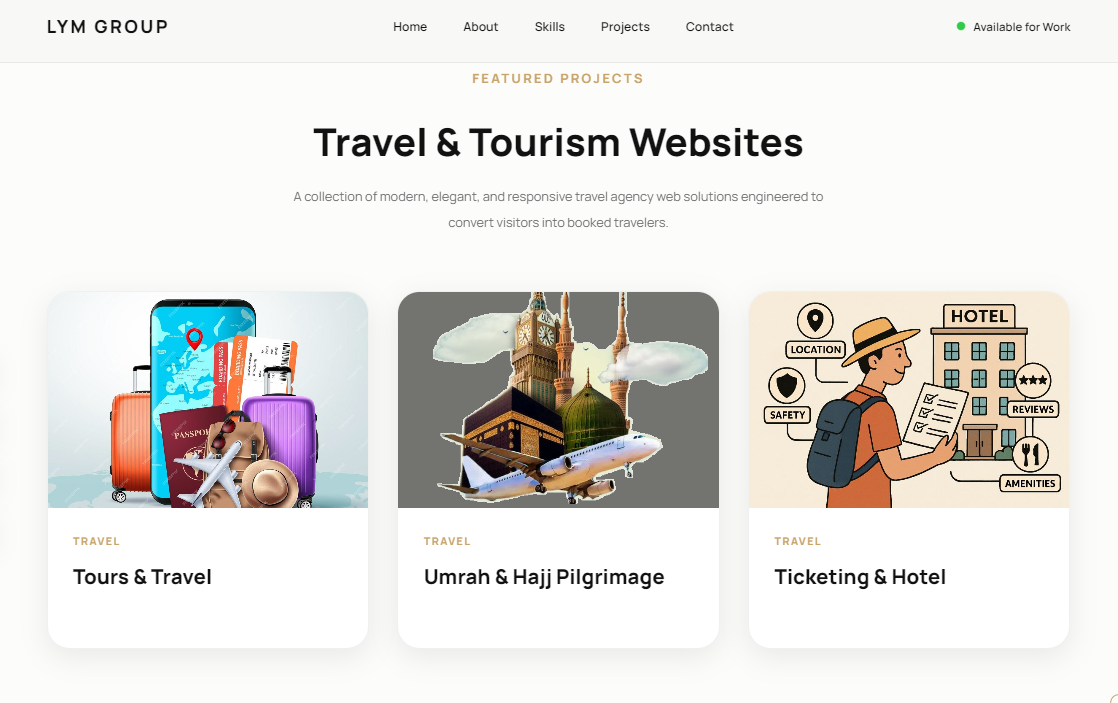
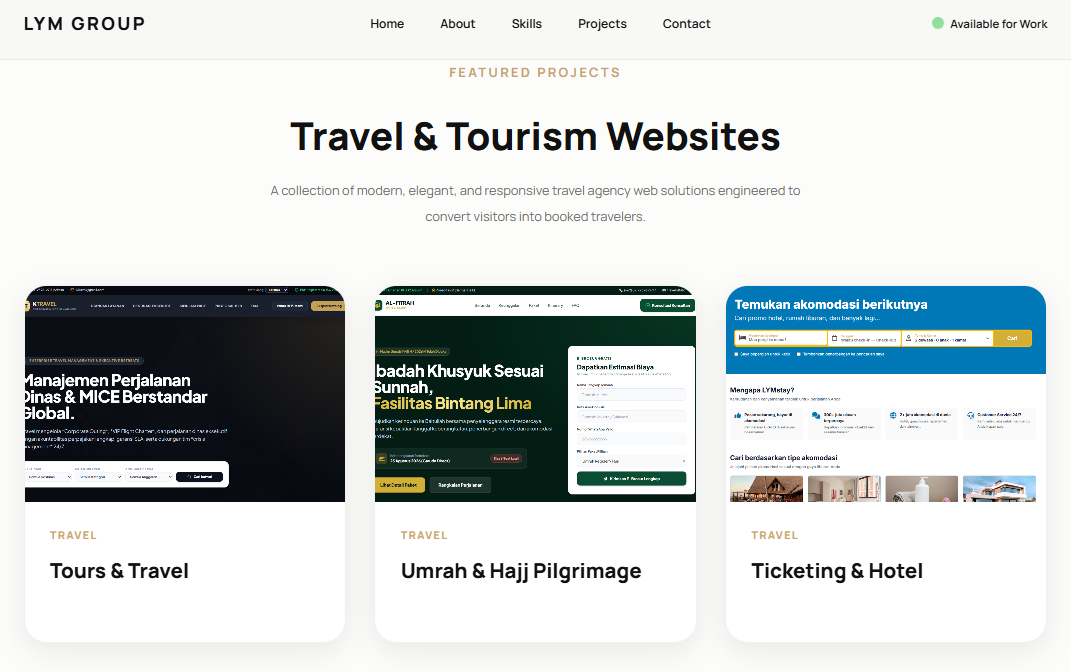
Fix website

diff --git a/portofolio/produk/fashion-store.html b/portofolio/produk/fashion-store.html
@@ -205,6 +205,10 @@ Available for Work
 
     </div>
 
+        </div>
+
+
+
 
 <!-- =====================================--><!-- HERO --><!--===================================== -->
 

diff --git a/index.html b/index.html
@@ -106,7 +106,7 @@
 
                 <span class="dot"></span>
 
-                Available for Work
+                Available For Work
 
             </div>
 
